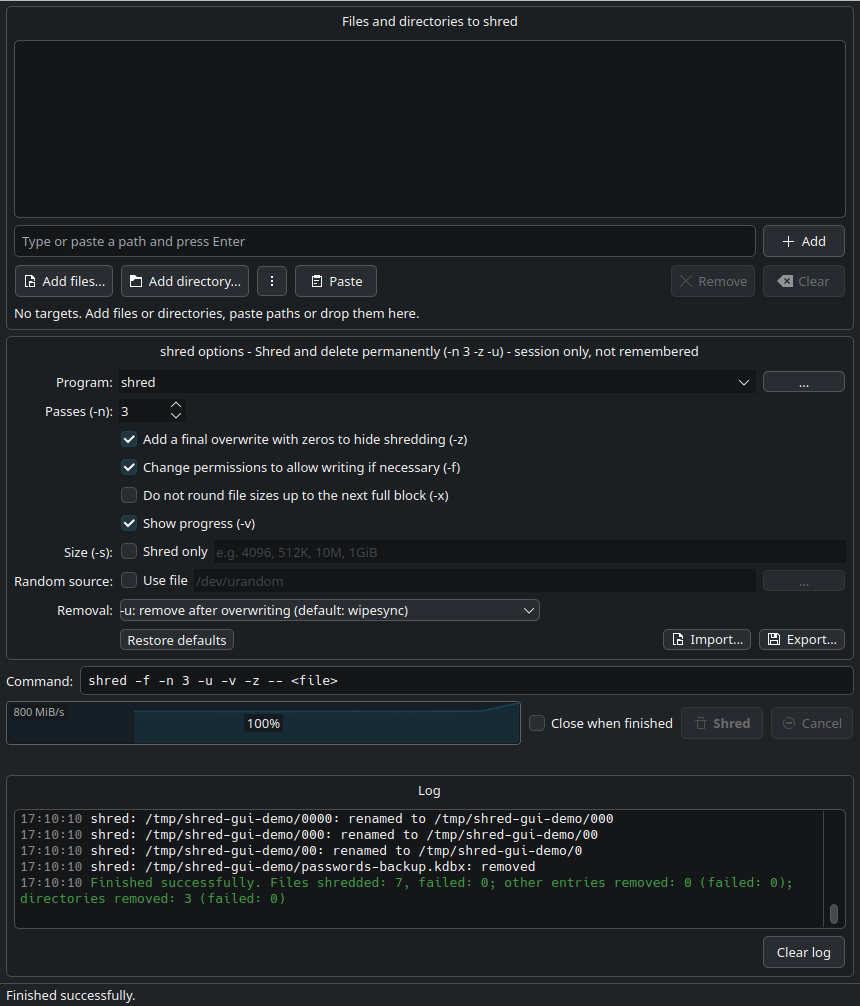
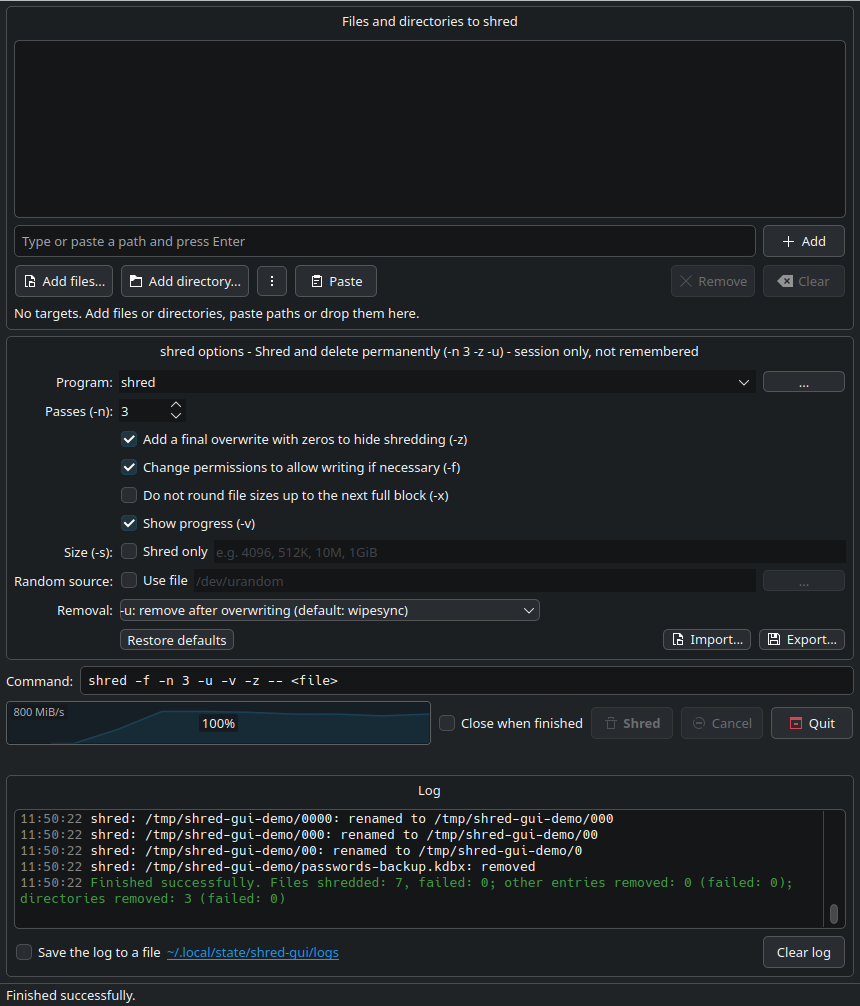
Log directory shown next to the log option; screenshots updated
Next to "Save the log to a file" the directory of the log files is
shown (~/.local/state/<app>/logs) as a link that opens it in the file
manager (created first, readable by the user only, if it does not
exist yet); it is greyed out while the log is not saved. The "Log
file:" line in the log shows the path with "~" too.

tools/make-screenshots.sh runs the application with a home directory
of its own (HOME, XDG_STATE_HOME): log files are not written to the
user's, and the window shows ~/... instead of temporary paths. The
screenshots of the main window and of the finished run are updated
(the log option and the Quit button).

diff --git a/src/mainwindow.cpp b/src/mainwindow.cpp
@@ -12,6 +12,7 @@
 #include <QClipboard>
 #include <QCloseEvent>
 #include <QComboBox>
+#include <QDesktopServices>
 #include <QDir>
 #include <QDragEnterEvent>
 #include <QDropEvent>
@@ -311,8 +312,24 @@ void MainWindow::buildUi()
                                     "The log names the shredded files - the file keeps their names after the "
                                     "files are gone.")
                                      .arg(RunLog::defaultDirectory(QStringLiteral("shred-gui"))));
+    // The directory of the log files next to the checkbox - a link that opens it in the file manager.
+    const QString logDirectory = RunLog::defaultDirectory(QStringLiteral("shred-gui"));
+    auto *logDirectoryLabel = new QLabel(QStringLiteral("<a href=\"%1\">%2</a>")
+                                             .arg(QUrl::fromLocalFile(logDirectory).toString().toHtmlEscaped(),
+                                                  RunLog::displayDirectory(logDirectory).toHtmlEscaped()),
+                                         m_logToFileCheck->parentWidget());
+    logDirectoryLabel->setTextFormat(Qt::RichText);
+    logDirectoryLabel->setToolTip(tr("Open the directory of the log files (created if it does not exist yet)."));
+    connect(logDirectoryLabel, &QLabel::linkActivated, this, [this, logDirectory] {
+        if (!RunLog::makeDirectory(logDirectory) || !QDesktopServices::openUrl(QUrl::fromLocalFile(logDirectory)))
+            appendLog(ShredJob::LogLevel::Warning, tr("Cannot open %1").arg(logDirectory));
+    });
+    // Greyed out while the log is not saved.
+    logDirectoryLabel->setEnabled(m_logToFileCheck->isChecked());
+    connect(m_logToFileCheck, &QCheckBox::toggled, logDirectoryLabel, &QWidget::setEnabled);
     auto *logButtons = new QHBoxLayout;
     logButtons->addWidget(m_logToFileCheck);
+    logButtons->addWidget(logDirectoryLabel);
     logButtons->addStretch(1);
     logButtons->addWidget(clearLog);
     logLayout->addWidget(m_log, 1);
@@ -1135,7 +1152,7 @@ void MainWindow::confirmAndStart(const QList<ShredJob::Plan> &scanned, const QSt
         appendLog(ShredJob::LogLevel::Warning, note);
     appendLogLines(ShredJob::LogLevel::Info, tr("=== Start: %1 target(s) ===").arg(m_job->plans().size()), true);
     if (m_runLog.isOpen())
-        appendLog(ShredJob::LogLevel::Info, tr("Log file: %1").arg(m_runLog.path()));
+        appendLog(ShredJob::LogLevel::Info, tr("Log file: %1").arg(RunLog::displayDirectory(m_runLog.path())));
     else if (options.logToFile)
         appendLog(ShredJob::LogLevel::Warning, tr("The log is not saved: %1").arg(logFileError));
     if (!unwritable.isEmpty()) {

diff --git a/src/runlog.cpp b/src/runlog.cpp
@@ -9,15 +9,32 @@ QString RunLog::defaultDirectory(const QString &appName)
         + QStringLiteral("/logs");
 }
 
+QString RunLog::displayDirectory(const QString &directory)
+{
+    const QString home = QDir::homePath();
+    if (directory == home)
+        return QStringLiteral("~");
+    if (directory.startsWith(home + QLatin1Char('/')))
+        return QLatin1Char('~') + directory.mid(home.size());
+    return directory;
+}
+
+bool RunLog::makeDirectory(const QString &directory)
+{
+    if (!QDir().mkpath(directory))
+        return false;
+    QFile::setPermissions(directory, QFileDevice::ReadOwner | QFileDevice::WriteOwner | QFileDevice::ExeOwner);
+    return true;
+}
+
 bool RunLog::open(const QString &directory, const QDateTime &start, QString *error)
 {
     close();
-    if (!QDir().mkpath(directory)) {
+    if (!makeDirectory(directory)) {
         if (error)
             *error = QObject::tr("Cannot create the directory \"%1\".").arg(directory);
         return false;
     }
-    QFile::setPermissions(directory, QFileDevice::ReadOwner | QFileDevice::WriteOwner | QFileDevice::ExeOwner);
     const QString base = directory + QLatin1Char('/') + start.toString(QStringLiteral("yyyy-MM-dd_HH-mm-ss"));
     for (int n = 1; n < 1000; ++n) {
         const QString path = n == 1 ? base + QStringLiteral(".log") : QStringLiteral("%1_%2.log").arg(base).arg(n);

diff --git a/tests/tst_shredcore.cpp b/tests/tst_shredcore.cpp
@@ -1097,6 +1097,12 @@ void TestShredCore::runLogFiles()
     QVERIFY(ShredOptions::fromJson(QJsonObject{{"iterations", 1}}, &error, base).logToFile);
 
     QVERIFY(RunLog::defaultDirectory(QStringLiteral("shred-gui")).endsWith(QStringLiteral("/shred-gui/logs")));
+    // Shown next to the checkbox with the home directory as "~".
+    const QString home = QDir::homePath();
+    QCOMPARE(RunLog::displayDirectory(home + QStringLiteral("/.local/state/app/logs")), QStringLiteral("~/.local/state/app/logs"));
+    QCOMPARE(RunLog::displayDirectory(home), QStringLiteral("~"));
+    QCOMPARE(RunLog::displayDirectory(home + QStringLiteral("x/logs")), home + QStringLiteral("x/logs"));
+    QCOMPARE(RunLog::displayDirectory(QStringLiteral("/var/log")), QStringLiteral("/var/log"));
 }
 
 void TestShredCore::scanFindsHardLinks()

diff --git a/src/runlog.h b/src/runlog.h
@@ -12,6 +12,10 @@ class RunLog
 public:
     // <XDG_STATE_HOME, usually ~/.local/state>/<appName>/logs
     static QString defaultDirectory(const QString &appName);
+    // A directory or file for showing: the home directory as "~".
+    static QString displayDirectory(const QString &directory);
+    // Creates the directory (readable by the user only) if needed.
+    static bool makeDirectory(const QString &directory);
 
     bool open(const QString &directory, const QDateTime &start, QString *error = nullptr);
     bool isOpen() const { return m_file.isOpen(); }
